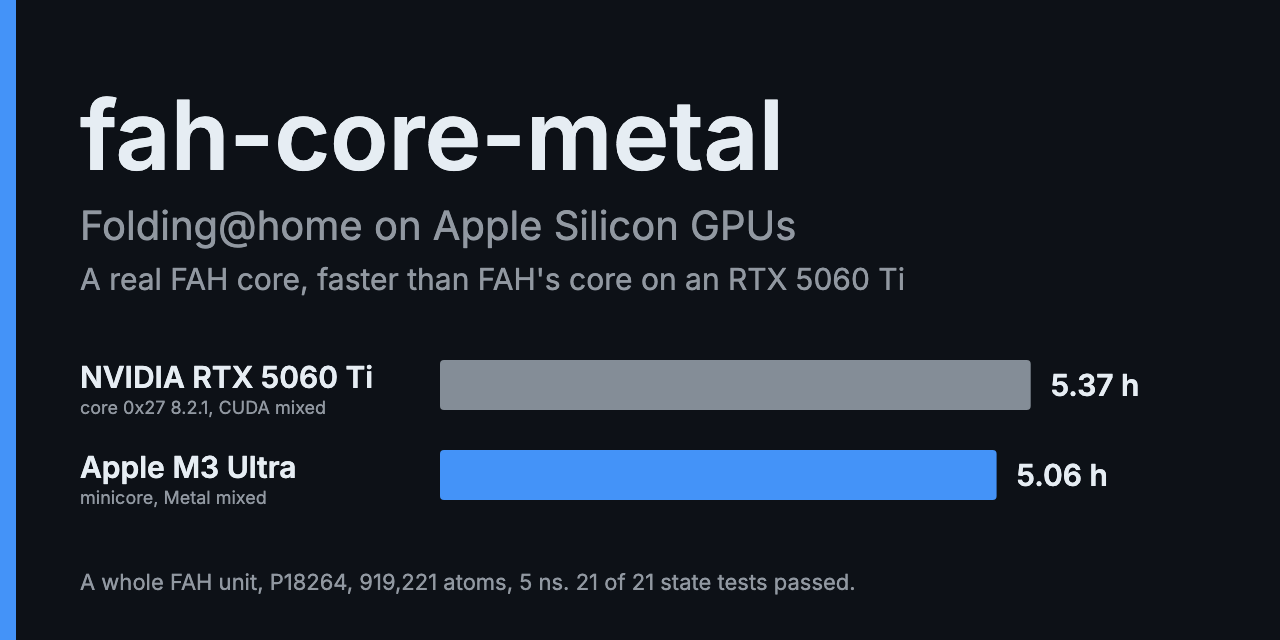
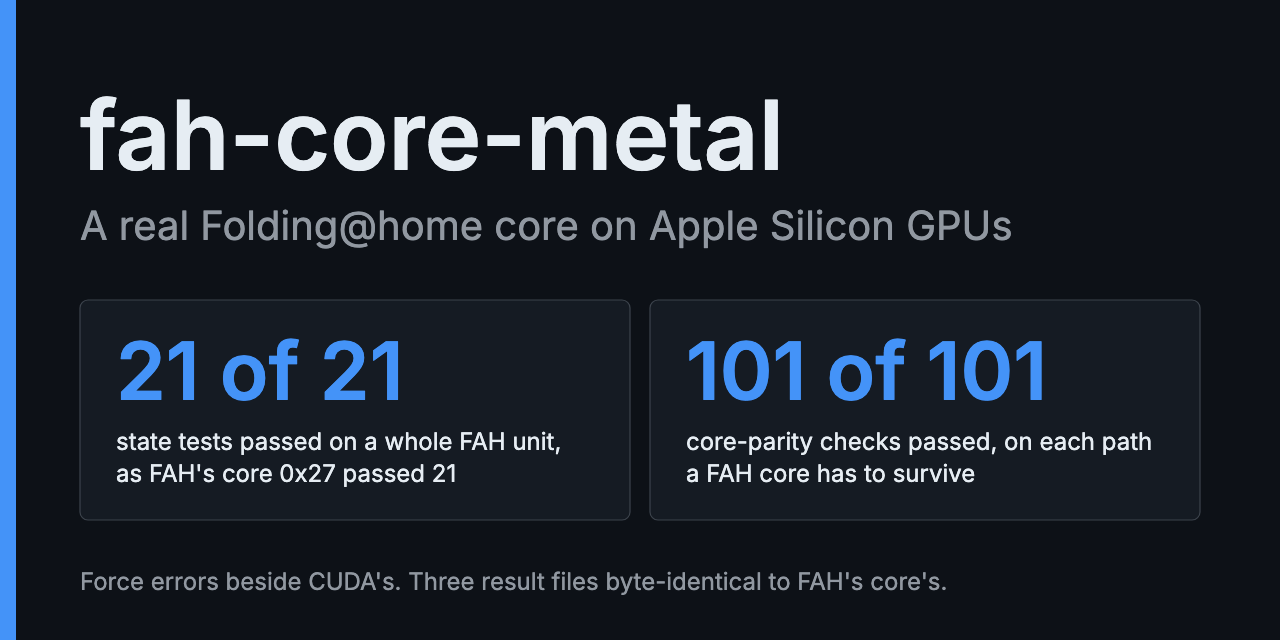
Lead the README, site and social card with quality, not hours
The opening, headline strip, meta and JSON-LD descriptions, llms.txt and
the social card now lead with FAH's own checks: 21 of 21 state tests on
P18264, three result files byte-identical to core 0x27's, 101 of 101
core-parity checks, accuracy beside CUDA's and the 16 s test fold.
Sections run Accuracy, Parity, Speed; the hours live in Speed and the
FAQ. README prose is 350 words.

Changed region(s): [[0.0625, 0.5312, 0.9062, 0.8125], [0.0625, 0.3125, 0.8125, 0.4688], [0.0625, 0.875, 0.75, 0.9375]]

diff --git a/docs/index.html b/docs/index.html
@@ -4,26 +4,26 @@
 <meta charset="utf-8">
 <meta name="viewport" content="width=device-width, initial-scale=1">
 <title>fah-core-metal: a real, fully working Folding@home core for Apple Silicon GPUs</title>
-<meta name="description" content="A real, fully working Folding@home core for Apple Silicon GPUs. minicore runs FAH's real OpenMM work units on the Mac's GPU through OpenMM's Metal platform. It folded a whole real FAH unit, P18264, in 5.06 h, against 5.37 h for FAH's core 0x27 on an NVIDIA RTX 5060 Ti, and passed 21 of 21 state tests.">
+<meta name="description" content="A real, fully working Folding@home core for Apple Silicon GPUs. minicore runs FAH's own OpenMM work units end to end on the Mac's GPU and folds them to the standard of FAH's core 0x27: 21 of 21 state tests on a whole real FAH unit, and 101 of 101 core-parity checks.">
 <link rel="canonical" href="https://redesignedrobot.github.io/fah-core-metal/">
 <meta property="og:type" content="website">
-<meta property="og:title" content="fah-core-metal: Folding@home on Apple Silicon GPUs">
-<meta property="og:description" content="A real, fully working Folding@home core that runs FAH's real OpenMM work units on Apple Silicon GPUs. It folded a whole real FAH unit in 5.06 h, against 5.37 h for FAH's core on an RTX 5060 Ti, and passed 21 of 21 state tests.">
+<meta property="og:title" content="fah-core-metal: a real Folding@home core for Apple Silicon GPUs">
+<meta property="og:description" content="A real, fully working Folding@home core for Apple Silicon GPUs. It runs FAH's own OpenMM work units on the Mac's GPU and passed 21 of 21 state tests on a whole real FAH unit, as FAH's core did, and 101 of 101 core-parity checks.">
 <meta property="og:url" content="https://redesignedrobot.github.io/fah-core-metal/">
 <meta property="og:image" content="https://redesignedrobot.github.io/fah-core-metal/social.png">
 <meta property="og:image:width" content="1280">
 <meta property="og:image:height" content="640">
-<meta property="og:image:alt" content="fah-core-metal: hours per whole P18264 unit, FAH's core on an NVIDIA RTX 5060 Ti 5.37 h, minicore on Apple Silicon 5.06 h">
+<meta property="og:image:alt" content="fah-core-metal: a real Folding@home core on Apple Silicon GPUs. 21 of 21 state tests on a whole FAH unit, as FAH's core 0x27 passed. 101 of 101 core-parity checks.">
 <meta name="twitter:card" content="summary_large_image">
-<meta name="twitter:title" content="fah-core-metal: Folding@home on Apple Silicon GPUs">
-<meta name="twitter:description" content="A real, fully working Folding@home core that runs FAH's real OpenMM work units on Apple Silicon GPUs. It folded a whole real FAH unit in 5.06 h, against 5.37 h for FAH's core on an RTX 5060 Ti, and passed 21 of 21 state tests.">
+<meta name="twitter:title" content="fah-core-metal: a real Folding@home core for Apple Silicon GPUs">
+<meta name="twitter:description" content="A real, fully working Folding@home core for Apple Silicon GPUs. It runs FAH's own OpenMM work units on the Mac's GPU and passed 21 of 21 state tests on a whole real FAH unit, as FAH's core did, and 101 of 101 core-parity checks.">
 <meta name="twitter:image" content="https://redesignedrobot.github.io/fah-core-metal/social.png">
 <script type="application/ld+json">
 {
   "@context": "https://schema.org",
   "@type": "SoftwareSourceCode",
   "name": "fah-core-metal",
-  "description": "A Folding@home core that runs FAH's real OpenMM work units on Apple Silicon GPUs. It folded a whole real FAH unit in 5.06 h, against 5.37 h for FAH's core on an RTX 5060 Ti, and passed 21 of 21 state tests.",
+  "description": "A real, fully working Folding@home core for Apple Silicon GPUs. minicore runs FAH's own OpenMM work units end to end on the Mac's GPU and folds them to the standard of FAH's core 0x27: 21 of 21 state tests on a whole real FAH unit, and 101 of 101 core-parity checks.",
   "codeRepository": "https://github.com/RedesignedRobot/fah-core-metal",
   "url": "https://redesignedrobot.github.io/fah-core-metal/",
   "programmingLanguage": "C++",
@@ -59,39 +59,19 @@ footer { margin-top: 48px; color: var(--muted); font-size: 14px; }
 <h1>fah-core-metal</h1>
 <p class="lede">A real, fully working Folding@home core for Apple Silicon GPUs.</p>
 
-<p>People have asked for it since 2019 (<a href="https://github.com/openmm/openmm/issues/2489">openmm#2489</a>) and
+<p>People have asked for Folding@home on Apple GPUs since 2019 (<a href="https://github.com/openmm/openmm/issues/2489">openmm#2489</a>) and
 2024 (<a href="https://github.com/FoldingAtHome/fah-client-bastet/issues/303">fah-client-bastet#303</a>). Here it
-is. minicore is a Folding@home core that runs FAH's real OpenMM work units on the Mac's GPU through
-OpenMM's Metal platform. It folded a whole real FAH unit faster than FAH's own core on an NVIDIA card.</p>
+is. minicore runs Folding@home's own OpenMM work units end to end on the Mac's GPU, through OpenMM's Metal
+platform, and folds them to the standard of FAH's own core.</p>
 
 <table>
-<tr><th></th><th>P18264, a whole real FAH unit: 919,221 atoms, 5 ns</th></tr>
-<tr><td class="n">5.06 h</td><td>on Apple Silicon, against 5.37 h for FAH's core 0x27 on an NVIDIA RTX 5060 Ti (182 s against 192 s per 1%)</td></tr>
-<tr><td class="n">21 of 21</td><td>state tests passed on that unit, as FAH's core passed 21</td></tr>
-<tr><td class="n">Six files</td><td>in the result, in FAH's order with FAH's frame counts; three output files byte-identical to FAH's core's; box volume 9,307.4 against 9,307.1 nm³</td></tr>
-<tr><td class="n">101 of 101</td><td>core-parity checks passed</td></tr>
-<tr><td class="n">65 of 65</td><td>failure and stop-resume cases passed</td></tr>
+<tr><th></th><th>Checked against FAH's core 0x27</th></tr>
+<tr><td class="n">21 of 21</td><td>state tests passed on a whole real FAH unit (P18264, 919,221 atoms, 5 ns), as FAH's core 0x27 passed 21</td></tr>
+<tr><td class="n">Six files</td><td>in the result, in core 0x27's order; viewerTop.json, xtcAtoms.csv.bz2 and checkpointIntegrator.xml byte-identical to core 0x27's</td></tr>
+<tr><td class="n">101 of 101</td><td>core-parity checks passed, and 65 of 65 failure and stop-resume cases</td></tr>
+<tr><td class="n">0.054</td><td>worst state-test force RMSE in kJ/mol/nm, beside CUDA's 0.052, against FAHBench's limit of 5</td></tr>
+<tr><td class="n">16 s</td><td>to fold the bundled test unit on an M3 Ultra after <code>./build.sh</code>, so you can check it yourself (<a href="https://github.com/RedesignedRobot/fah-core-metal#try-it">Try it</a>)</td></tr>
 </table>
-
-<h2>Speed</h2>
-<table>
-<tr><th>Machine</th><th>Core</th><th>Per 1%</th><th>Per unit</th></tr>
-<tr><td>Apple Silicon, M3 Ultra</td><td>minicore, Metal</td><td>182 s</td><td>5.06 h</td></tr>
-<tr><td>NVIDIA RTX 5060 Ti</td><td>FAH's core 0x27, CUDA</td><td>192 s</td><td>5.37 h</td></tr>
-</table>
-<figure>
-<picture>
-  <source media="(prefers-color-scheme: dark)" srcset="figures/speed-dark.svg">
-  <img alt="Hours per P18264 unit, Apple Silicon against FAH's core on NVIDIA" src="figures/speed-light.svg">
-</picture>
-<figcaption>Hours per whole P18264 unit.</figcaption>
-</figure>
-
-<h3>Also on NVIDIA</h3>
-<p>minicore built for CUDA (OpenMM 8.6.1) ran the unit's first 11% on the same card at 180 s per 1%,
-against FAH's core's 187 s. On a 5,000-step cut its viewerTop.json and xtcAtoms.csv.bz2 were
-byte-identical to FAH's core's. Run conditions are in
-<a href="https://github.com/RedesignedRobot/fah-core-metal/blob/main/docs/EVIDENCE.md#speed">EVIDENCE.md</a>.</p>
 
 <h2>Accuracy</h2>
 <figure>
@@ -127,14 +107,34 @@ byte-identical to FAH's core's. Run conditions are in
 format the client never reads.
 <a href="https://github.com/RedesignedRobot/fah-core-metal/blob/main/docs/PARITY.md">PARITY.md</a> lists every row.</p>
 
+<h2>Speed</h2>
+<table>
+<tr><th>Machine</th><th>Core</th><th>Per 1%</th><th>Per unit</th></tr>
+<tr><td>Apple Silicon, M3 Ultra</td><td>minicore, Metal</td><td>182 s</td><td>5.06 h</td></tr>
+<tr><td>NVIDIA RTX 5060 Ti</td><td>FAH's core 0x27, CUDA</td><td>192 s</td><td>5.37 h</td></tr>
+</table>
+<figure>
+<picture>
+  <source media="(prefers-color-scheme: dark)" srcset="figures/speed-dark.svg">
+  <img alt="Hours per P18264 unit, Apple Silicon against FAH's core on NVIDIA" src="figures/speed-light.svg">
+</picture>
+<figcaption>Hours per whole P18264 unit.</figcaption>
+</figure>
+
+<h3>Also on NVIDIA</h3>
+<p>minicore built for CUDA (OpenMM 8.6.1) ran the unit's first 11% on the same card at 180 s per 1%,
+against FAH's core's 187 s. On a 5,000-step cut its viewerTop.json and xtcAtoms.csv.bz2 were
+byte-identical to FAH's core's. Run conditions are in
+<a href="https://github.com/RedesignedRobot/fah-core-metal/blob/main/docs/EVIDENCE.md#speed">EVIDENCE.md</a>.</p>
+
 <h2>FAQ</h2>
-<h3>Can Folding@home use the Apple Silicon GPU?</h3>
-<p>minicore does. It runs FAH's real OpenMM work units on the Mac's GPU.</p>
-<h3>How fast is it against NVIDIA?</h3>
-<p>Faster than FAH's core on an RTX 5060 Ti, 5.06 h against 5.37 h for the whole of P18264.</p>
 <h3>Is it as accurate as FAH's core?</h3>
 <p>Yes. It passed all 21 of the unit's state tests, as FAH's core did, and its errors and drift sit with
 CUDA's.</p>
+<h3>Can Folding@home use the Apple Silicon GPU?</h3>
+<p>Yes. minicore runs FAH's real work units on it.</p>
+<h3>How fast is it against NVIDIA?</h3>
+<p>On P18264 minicore took 5.06 h on an M3 Ultra, and FAH's core took 5.37 h on an RTX 5060 Ti.</p>
 <h3>Can I fold for Folding@home points with it today?</h3>
 <p>No. FAH signs its cores and their results with its own private key, so that step is FAH's.</p>
 

diff --git a/docs/figures/make.py b/docs/figures/make.py
@@ -366,20 +366,19 @@ def social_svg():
     body = [f'<style>{face}text {{ font-family: InterCard; }}</style>\n', rect(0, 0, W, H, t["paper"], 0),
             rect(0, 0, 16, H, t["ultra"], 0),
             text(80, 170, "fah-core-metal", t["fg"], 96, "start", "600"),
-            text(80, 240, "Folding@home on Apple Silicon GPUs", t["muted"], 40),
-            text(80, 290, "A real FAH core, faster than FAH's core on an RTX 5060 Ti", t["muted"], 30)]
-    # Hours per P18264 unit, the same numbers as Figure 2.
-    for k, x in enumerate(rows("speed.csv")):
-        y = 360 + k * 90
-        c = t["ultra"] if x["machine"] == "M3 Ultra" else t["ref"]
-        w = 110 * float(x["unit_h"])
-        body.append(text(80, y + 28, MACHINE[x["machine"]], t["fg"], 30, "start", "600"))
-        body.append(text(80, y + 54, f'{x["core"].split(" (")[0]}, {x["api"]}', t["muted"], 18))
-        body.append(rect(440, y, w, 50, c, 4))
-        est = "" if x["unit_h_from"] == "full run" else " est."
-        body.append(text(460 + w, y + 36, f'{float(x["unit_h"]):.2f} h{est}', t["fg"], 30, "start", "600"))
-    body.append(text(80, 590, "A whole FAH unit, P18264, 919,221 atoms, 5 ns. 21 of 21 state tests passed.", t["muted"], 22))
-    return svg(W, H, body, "fah-core-metal: Folding@home on Apple Silicon GPUs through OpenMM Metal")
+            text(80, 240, "A real Folding@home core on Apple Silicon GPUs", t["muted"], 40)]
+    # Two tiles, the first two checks of the README's headline strip.
+    for k, (n, lines) in enumerate((("21 of 21", ("state tests passed on a whole FAH unit,", "as FAH's core 0x27 passed 21")),
+                                    ("101 of 101", ("core-parity checks passed, on each path", "a FAH core has to survive")))):
+        x = 80 + k * 570
+        body.append(rect(x, 300, 550, 220, t["tile"], 8, t["grid"]))
+        body.append(text(x + 36, 400, n, t["ultra"], 80, "start", "600"))
+        for i, ln in enumerate(lines):
+            body.append(text(x + 36, 450 + i * 32, ln, t["fg"], 24))
+    body.append(text(80, 590, "Force errors beside CUDA's. Three result files byte-identical to FAH's core's.",
+                     t["muted"], 24))
+    return svg(W, H, body, "fah-core-metal: a real Folding@home core on Apple Silicon GPUs. "
+               "21 of 21 state tests on a whole FAH unit, as FAH's core 0x27 passed. 101 of 101 core-parity checks.")
 
 
 def social_png(svg_path, png_path):

diff --git a/README.md b/README.md
@@ -6,36 +6,15 @@ People have asked for Folding@home on Apple GPUs since 2019
 ([openmm#2489](https://github.com/openmm/openmm/issues/2489)) and 2024
 ([fah-client-bastet#303](https://github.com/FoldingAtHome/fah-client-bastet/issues/303)). Here it is.
 minicore runs Folding@home's own OpenMM work units end to end on the Mac's GPU, through OpenMM's Metal
-platform, and writes FAH's result files. On a whole real FAH unit, my M3 Ultra took 5.06 h. FAH's own
-core took 5.37 h on an NVIDIA RTX 5060 Ti.
+platform, and folds them to the standard of FAH's own core.
 
-| | P18264, a whole real FAH unit: 919,221 atoms, 5 ns |
+| | Checked against FAH's core 0x27 |
 | ---: | --- |
-| **5.06 h** | on an M3 Ultra, against 5.37 h for FAH's core 0x27 on an NVIDIA RTX 5060 Ti (182 s against 192 s per 1%) |
-| **21 of 21** | of the unit's state tests passed against the CPU platform, as core 0x27's 21 did |
+| **21 of 21** | state tests passed on a whole real FAH unit (P18264, 919,221 atoms, 5 ns), as FAH's core 0x27 passed 21 |
 | **Six files** | in the result, in core 0x27's order; viewerTop.json, xtcAtoms.csv.bz2 and checkpointIntegrator.xml byte-identical to core 0x27's |
 | **101 of 101** | core-parity checks passed, and 65 of 65 failure and stop-resume cases |
-| **16 s** | to fold the bundled test unit on the M3 Ultra after `./build.sh`, so you can check it yourself ([Try it](#try-it)) |
-
-## Speed
-
-| Machine | Core | Per 1% | Per unit |
-| --- | --- | ---: | ---: |
-| Apple Silicon, M3 Ultra | minicore, Metal | 182 s | 5.06 h |
-| NVIDIA RTX 5060 Ti | FAH's core 0x27, CUDA | 192 s | 5.37 h |
-
-<picture>
-  <source media="(prefers-color-scheme: dark)" srcset="docs/figures/speed-dark.svg">
-  <img alt="Hours per P18264 unit, Apple Silicon against FAH's core on NVIDIA" src="docs/figures/speed-light.svg">
-</picture>
-
-*Hours per whole P18264 unit.*
-
-### Also on NVIDIA
-
-minicore built for CUDA (OpenMM 8.6.1) ran the unit's first 11% on the same card at 180 s per 1%,
-against FAH's core's 187 s. On a 5,000-step cut its viewerTop.json and xtcAtoms.csv.bz2 were
-byte-identical to FAH's core's. Run conditions are in [EVIDENCE.md](docs/EVIDENCE.md#speed).
+| **0.054** | worst state-test force RMSE in kJ/mol/nm, beside CUDA's 0.052, against FAHBench's limit of 5 |
+| **16 s** | to fold the bundled test unit on an M3 Ultra after `./build.sh`, so you can check it yourself ([Try it](#try-it)) |
 
 ## Accuracy
 
@@ -70,9 +49,29 @@ byte-identical to FAH's core's. Run conditions are in [EVIDENCE.md](docs/EVIDENC
 Every behaviour FAH's client acts on matches core 0x27. The rest needs FAH's own signing keys or is a
 format the client never reads. [docs/PARITY.md](docs/PARITY.md) lists every row.
 
+## Speed
+
+| Machine | Core | Per 1% | Per unit |
+| --- | --- | ---: | ---: |
+| Apple Silicon, M3 Ultra | minicore, Metal | 182 s | 5.06 h |
+| NVIDIA RTX 5060 Ti | FAH's core 0x27, CUDA | 192 s | 5.37 h |
+
+<picture>
+  <source media="(prefers-color-scheme: dark)" srcset="docs/figures/speed-dark.svg">
+  <img alt="Hours per P18264 unit, Apple Silicon against FAH's core on NVIDIA" src="docs/figures/speed-light.svg">
+</picture>
+
+*Hours per whole P18264 unit.*
+
+### Also on NVIDIA
+
+minicore built for CUDA (OpenMM 8.6.1) ran the unit's first 11% on the same card at 180 s per 1%,
+against FAH's core's 187 s. On a 5,000-step cut its viewerTop.json and xtcAtoms.csv.bz2 were
+byte-identical to FAH's core's ([run conditions](docs/EVIDENCE.md#speed)).
+
 ## Try it
 
-On an Apple Silicon Mac with macOS 15 or later, Xcode or the Command Line Tools, git and CMake:
+On Apple Silicon with macOS 15 or later, Xcode or the Command Line Tools, git and CMake:
 
 ```sh
 git clone https://github.com/RedesignedRobot/fah-core-metal.git
@@ -82,8 +81,8 @@ cp -R test/alanine-dipeptide unit
 ./build/core/minicore -dir unit -gpu-vendor apple -gpu 0; echo "exit $?"
 ```
 
-Like any FAH core, the fold logs to `unit/logfile_01.txt`. Exit 100 is FINISHED_UNIT, and the result
-is `unit/wuresults_01.dat`.
+The fold logs to `unit/logfile_01.txt`, exits 100 (FINISHED_UNIT) and writes its result to
+`unit/wuresults_01.dat`.
 
 ## Build it
 
@@ -97,18 +96,18 @@ rm -rf build
 
 ## FAQ
 
-### Can Folding@home use the Apple Silicon GPU?
-
-minicore does. It runs FAH's real OpenMM work units on the Mac's GPU.
-
-### How fast is it against NVIDIA?
-
-Faster than FAH's core on an RTX 5060 Ti, 5.06 h against 5.37 h for the whole of P18264.
-
 ### Is it as accurate as FAH's core?
 
 Yes. It passed all 21 of the unit's state tests, as FAH's core did, and its errors and drift sit with
 CUDA's.
+
+### Can Folding@home use the Apple Silicon GPU?
+
+Yes. minicore runs FAH's real work units on it.
+
+### How fast is it against NVIDIA?
+
+On P18264 minicore took 5.06 h on an M3 Ultra, and FAH's core took 5.37 h on an RTX 5060 Ti.
 
 ### Can I fold for Folding@home points with it today?
 
